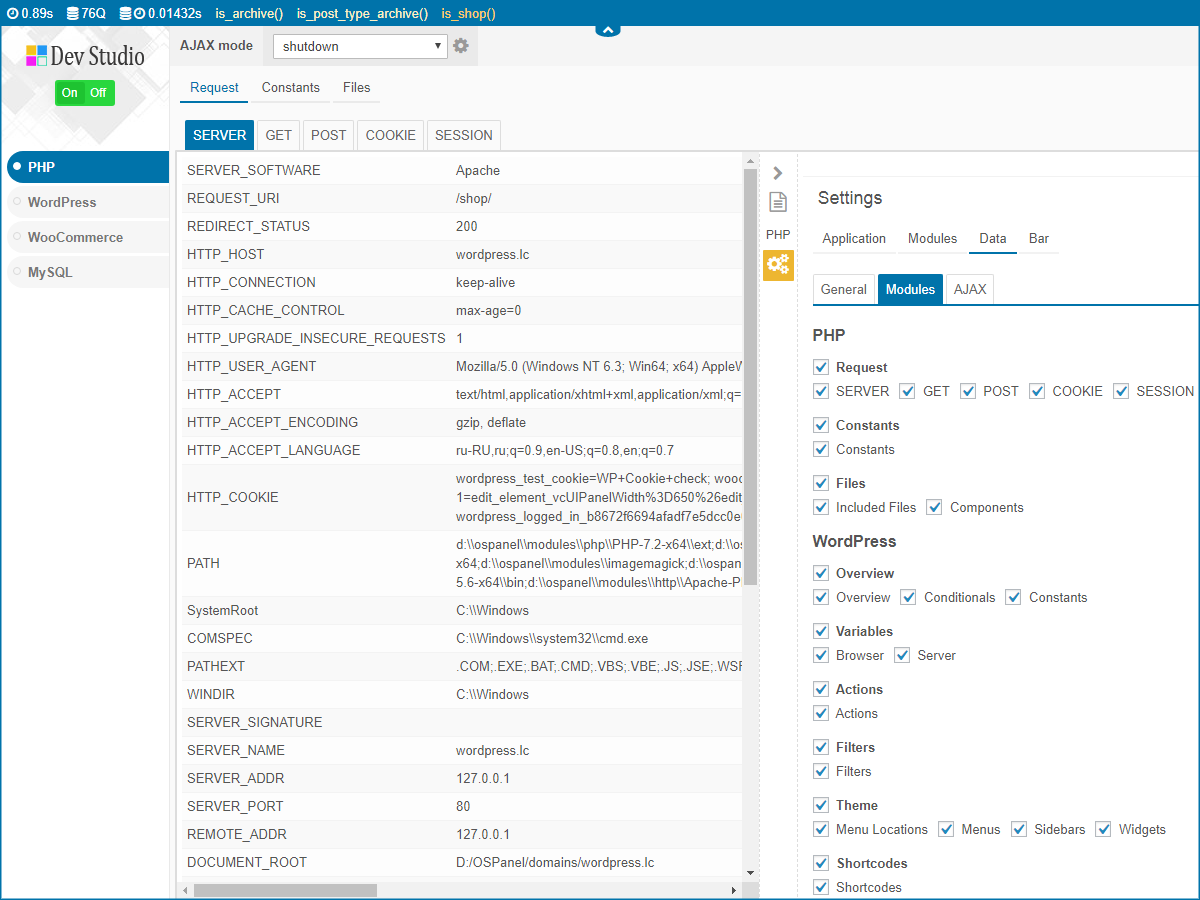
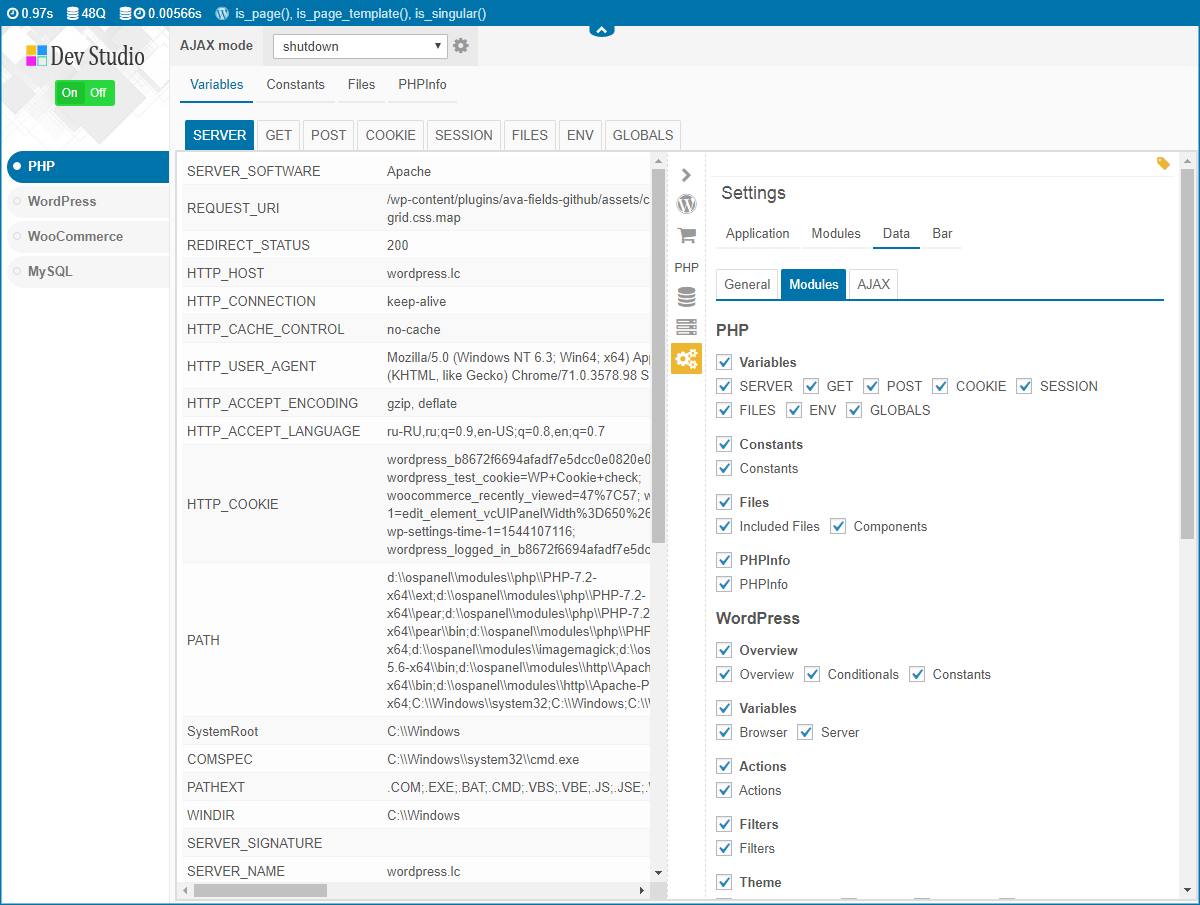
Env fix

diff --git a/assets/js/scripts.js b/assets/js/scripts.js
@@ -703,7 +703,7 @@
                 mode: this.mode()
             }
             data = obj = Object.assign({}, data, args);
-            console.log( data );
+            //console.log( data );
 
             $.ajax({
                 url: DSData.ajax_url,
@@ -711,7 +711,7 @@
                 dataType: 'json',
                 data: data,
                 success: function (response) {
-                     console.log(response);
+                    //console.log(response);
 
                     DevStudio.response = response;
 

diff --git a/app/DevStudio.php b/app/DevStudio.php
@@ -43,7 +43,7 @@ class DevStudio {
             ],
             'appearance' => [
                 'unit_init' => 'Wordpress.Overview.Overview',
-                'modules_order' => [ 'Wordpress', 'PHP', 'WooCommerce', 'MySQL' ]
+                'modules_order' => [ 'PHP', 'Wordpress', 'WooCommerce', 'MySQL' ]
             ],
             
         ],
@@ -513,6 +513,7 @@ class DevStudio {
 
         if (!empty($opts)) {
             $this->options = $opts;
+            update_option('dev_studio_options', $this->options);
         } else {
             $this->options = $this->default_options;
             add_option('dev_studio_options', $this->options);

diff --git a/app/Core/Settings.php b/app/Core/Settings.php
@@ -88,8 +88,9 @@ class Settings {
             $modules_items[$module] = [
                 'html' => $module_data->title
             ];
-            
         }
+
+
     
         $unit_init = [];
         foreach($data_groups as $group=>$data) {
@@ -372,6 +373,7 @@ class Settings {
         ]);
 
         $this->html = $this->avaFields->container( $this->option_name )->render();
+
         return $this->html;
     }
 

diff --git a/app/Core/Data.php b/app/Core/Data.php
@@ -26,6 +26,7 @@ class Data {
         'PHP.Variables.Files',
         'PHP.Variables.Env',
         'PHP.Variables.Globals',
+
         'PHP.Constants.Constants',
         'PHP.Files.Included_Files',
         'PHP.Files.Components',

diff --git a/app/Modules/PHP/Components/Variables/Variables.php b/app/Modules/PHP/Components/Variables/Variables.php
@@ -221,7 +221,7 @@ class Unit_Files extends Unit {
  */
 class Unit_Env extends Unit {
 
-    public $name = 'env';
+    public $name = 'Env';
     public $title = 'ENV';
 
     public function data() {
